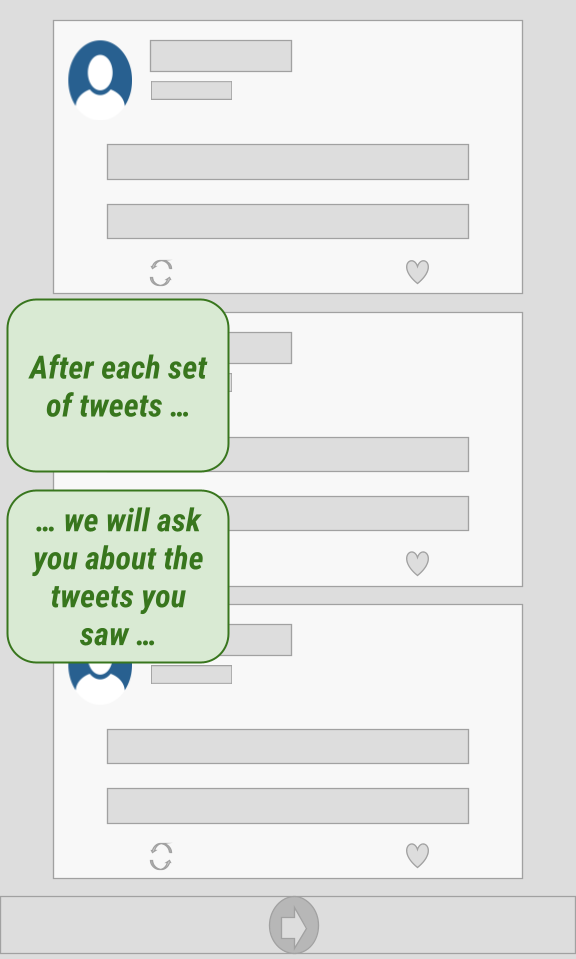
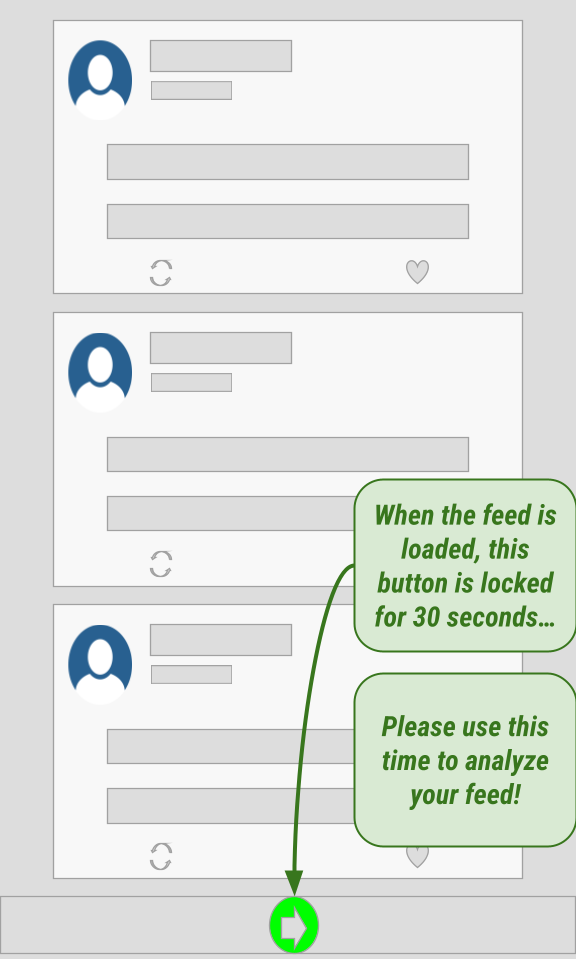
Additonal slides to carousel
Added additional slides explaining 30 second timer to carousel, plus typo fixes.

diff --git a/frontend/src/components/Carousel/SliderData.js b/frontend/src/components/Carousel/SliderData.js
@@ -35,6 +35,12 @@ export const SliderData = [
   {
       image: './Instruction_Images/Screenshot12.png'
   },
+  {
+      image: './Instruction_Images/Screenshot13.png'
+  },
+  {
+      image: './Instruction_Images/Screenshot14.png'
+  },
 ]
 
 //export default SliderData
